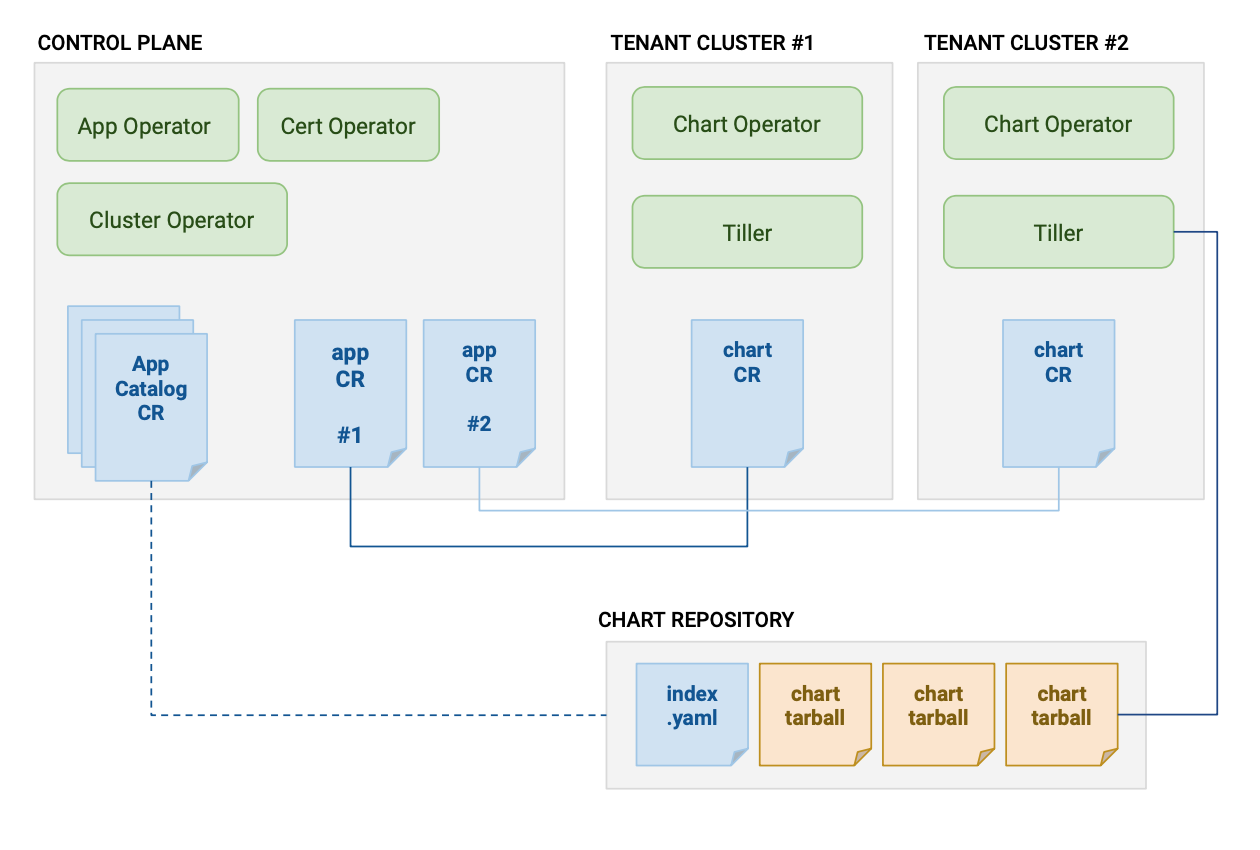
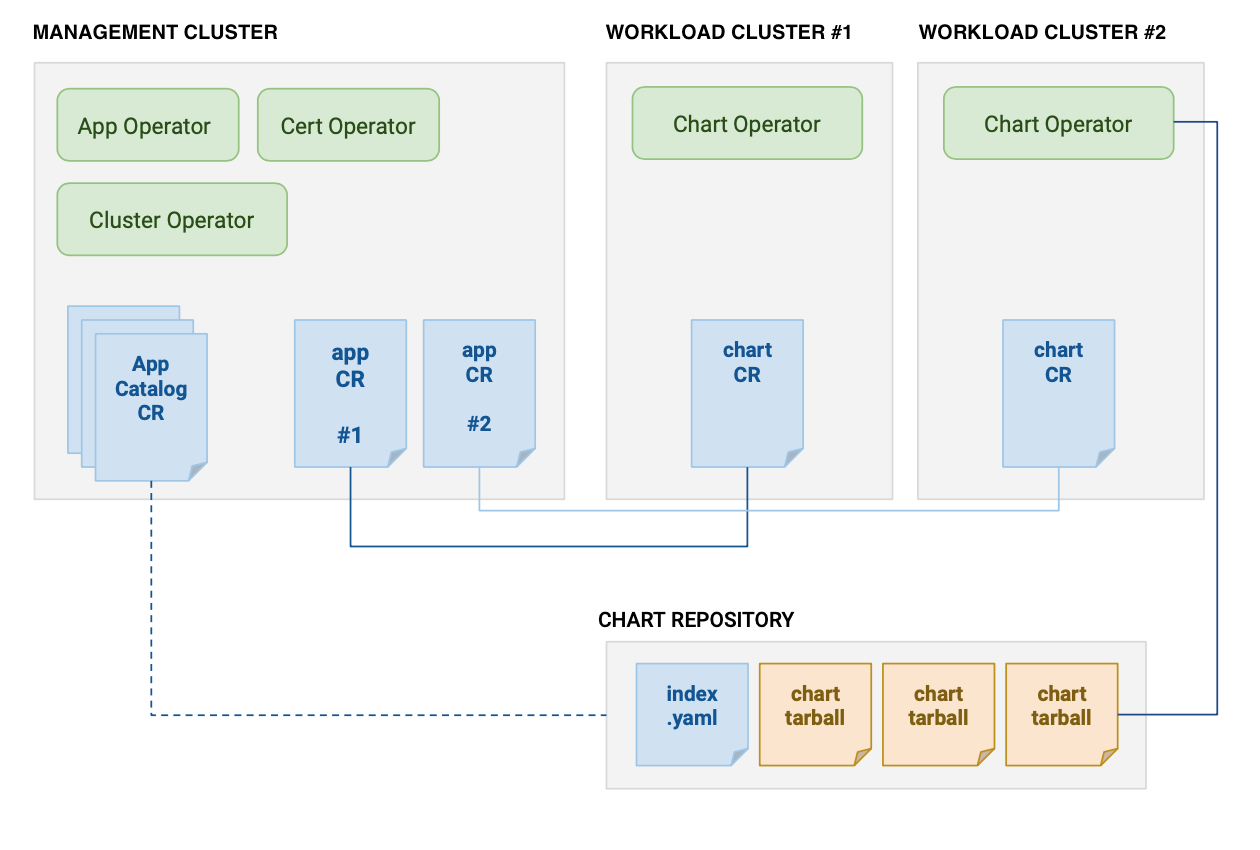
Update App Platform overview diagram and add note on how it relates to Helm

diff --git a/src/content/app-platform/overview/index.md b/src/content/app-platform/overview/index.md
@@ -30,6 +30,9 @@ The _Giant Swarm App Platform_ refers to a set of features and concepts that all
 you to browse, install and manage the configurations of apps (such as Prometheus)
 from a single place; the management cluster.
 
+We fully support [Helm](https://helm.sh/) as a general tool to deploy your applications as well as for our general App Catalog. Apps are packaged as Helm charts and can be configured with _values_. We provide a recommended
+[app configuration]({{< relref "/app-platform/app-configuration" >}}) which you can override to meet your needs.
+
 Using this platform, we are providing a collection of curated _Apps_. These _Apps_ are grouped into _App Catalogs_, which are browsable through our web interface.
 We also use app platform to install the apps that are pre-installed in your cluster (such as CoreDNS).
 
@@ -86,7 +89,7 @@ together to enable the features of the Giant Swarm App Platform:
 ### What kind of App Catalogs are there
 
 By default you will have the Giant Swarm Catalog and the Giant Swarm Playground installed
-on your Control Planes.
+on your management clusters.
 
 ### The Giant Swarm Catalog
 
